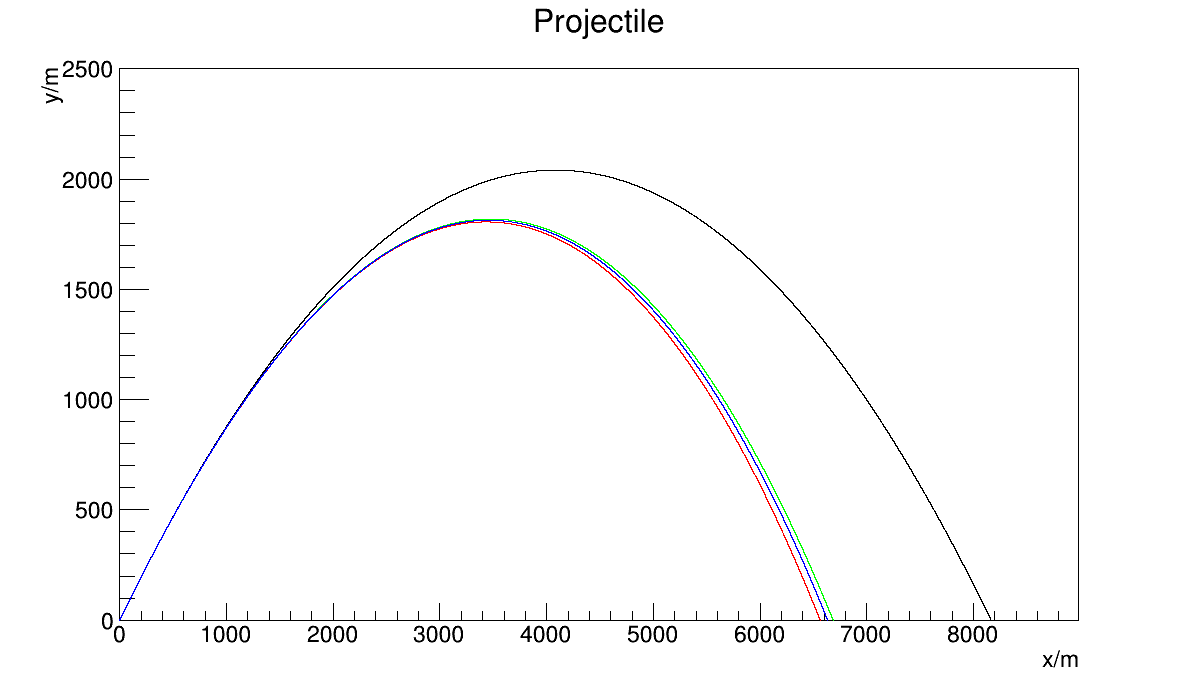
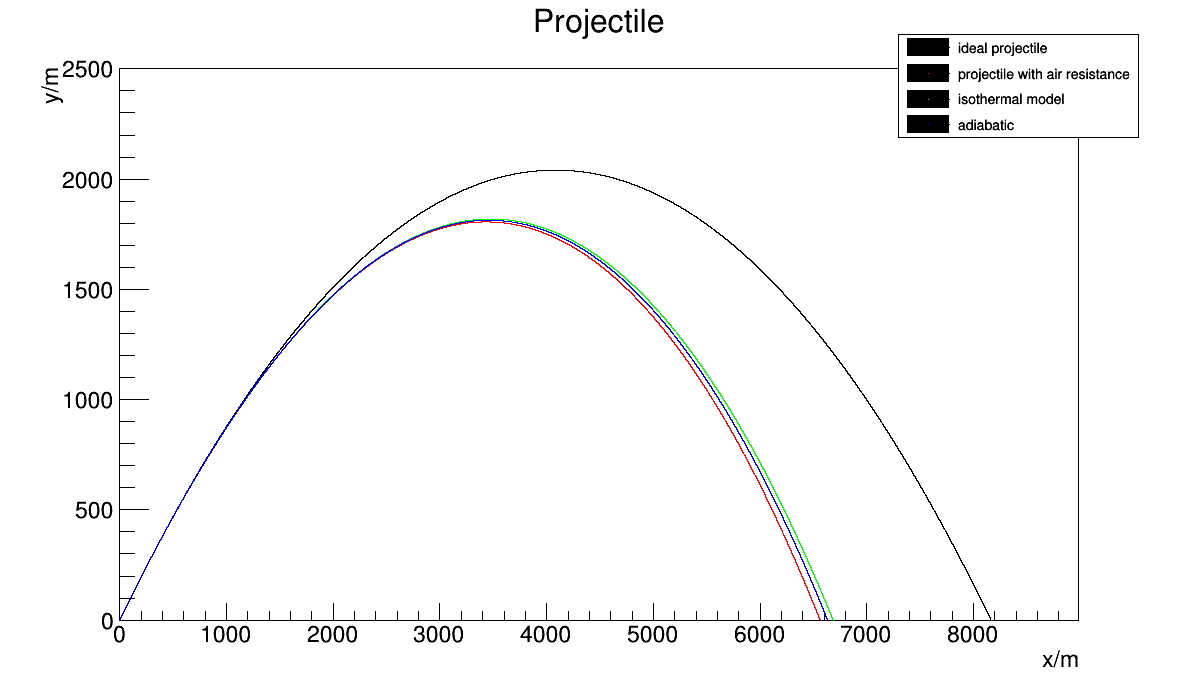
SecondChap

Changed region(s): [[0.7412, 0.0305, 0.9574, 0.2134]]

diff --git a/ChapterTwo/projectile.cpp b/ChapterTwo/projectile.cpp
@@ -227,6 +227,16 @@ n3 = cannon3.x.size();
    g1->Draw("Psame");
    g2->Draw("Psame");
    g3->Draw("Psame");
+   TLegend *legend = new TLegend(.75,.80,.95,.95);
+   legend->AddEntry(g0,"ideal projectile");
+   legend->AddEntry(g1,"projectile with air resistance");
+   legend->AddEntry(g2,"isothermal model");
+   legend->AddEntry(g3,"adiabatic");
+   legend->Draw();
+
+
+
+
 //cannon.Plot();
 return;
 }
